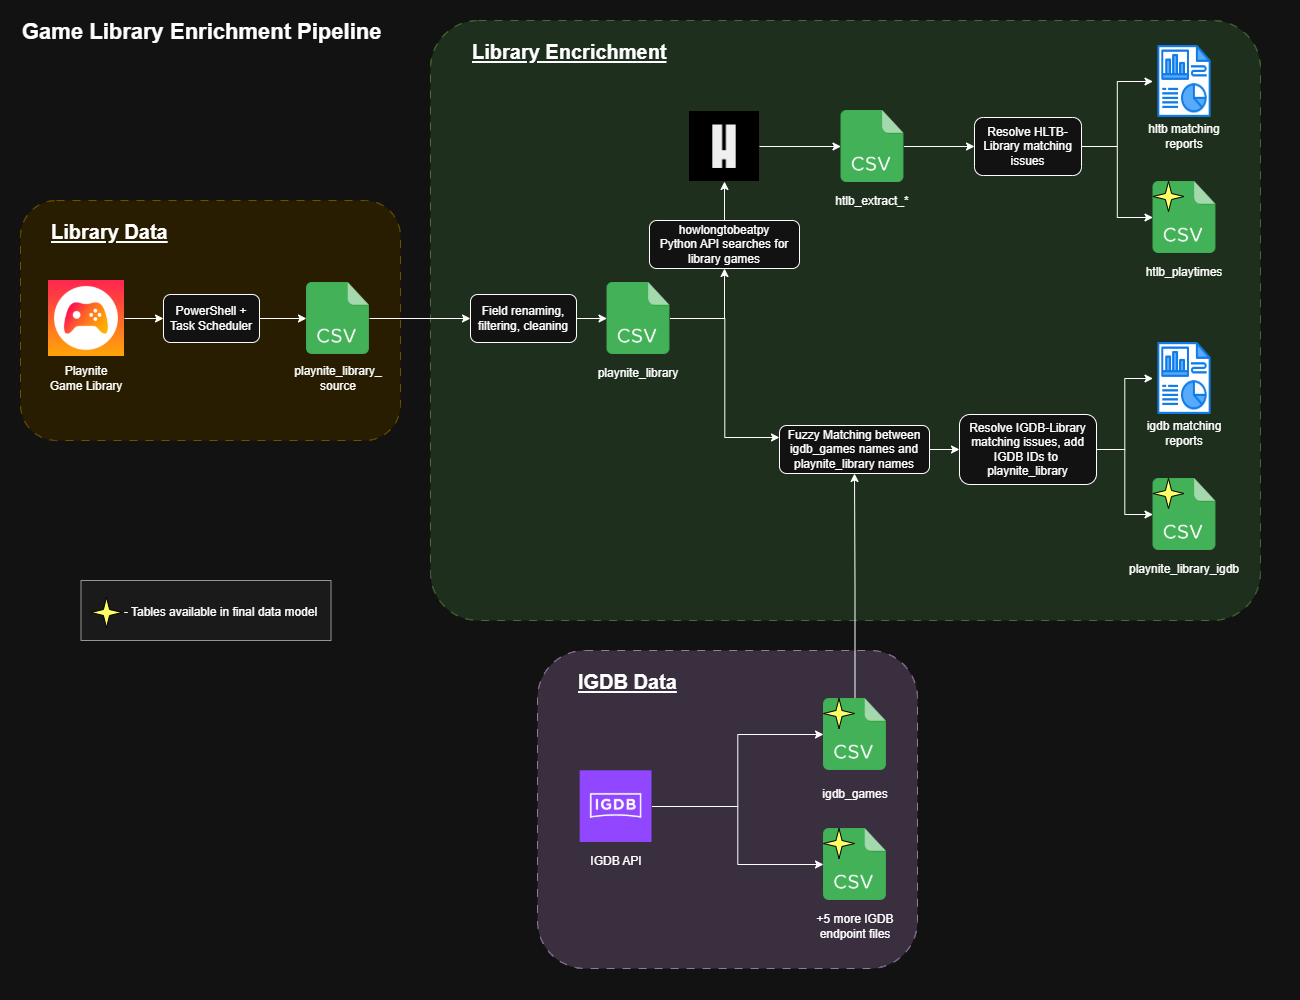
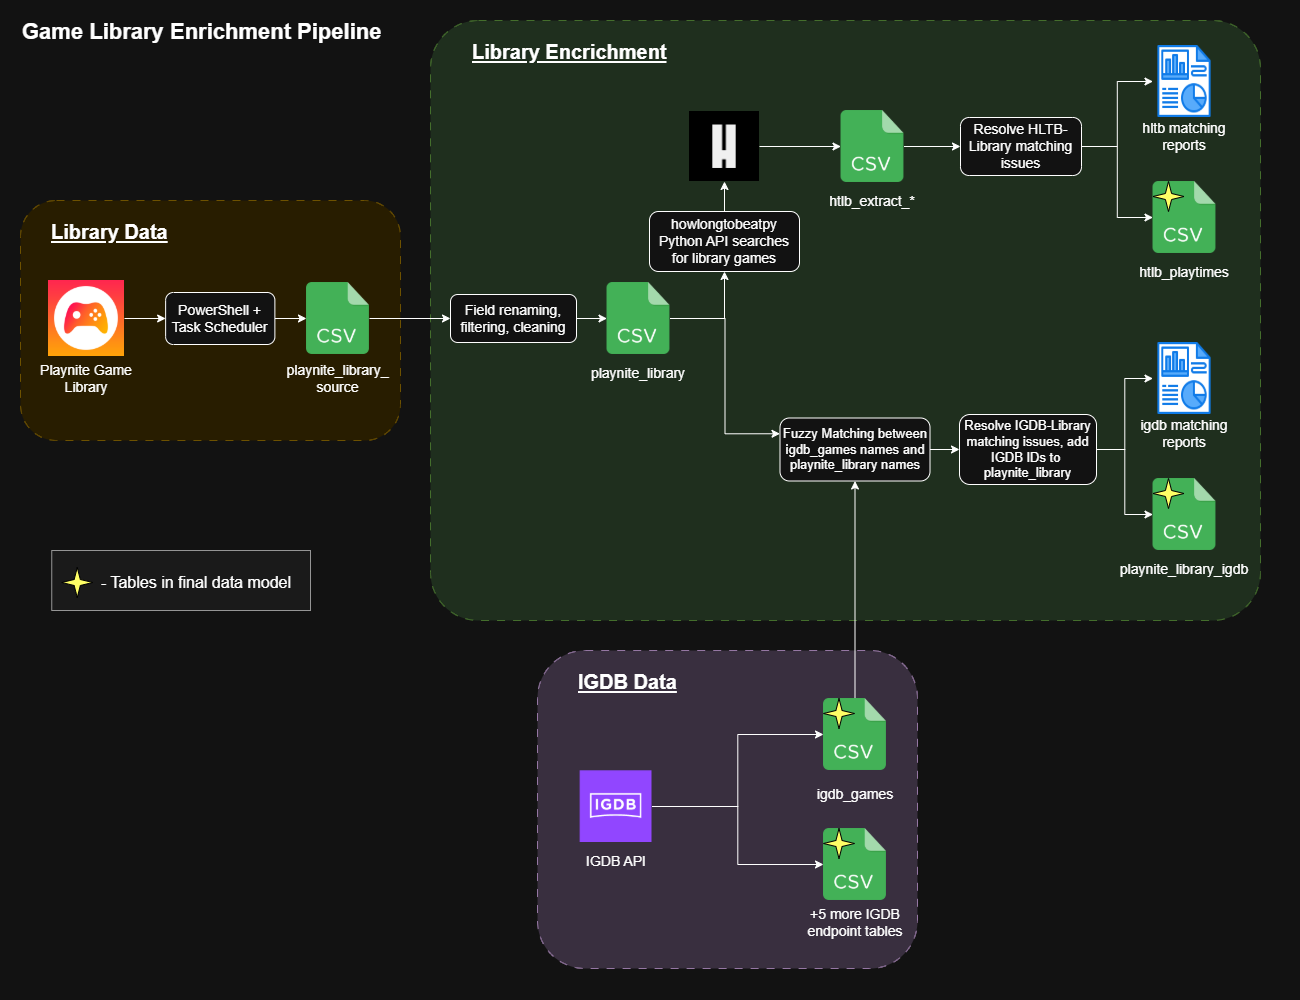
README UPDATES:
- Spelling, grammar mistakes
- Updates to diagrams
- Added weblinks for Playnite, HLTB, IGDB
- Added LICENSE section
- Added 'Remasters, Remakes, and Reboots' and 'Different Name in IGDB vs
  HLTB' sections in 'Challenges Faced'

diff --git a/README.md b/README.md
@@ -1,17 +1,17 @@
-# Video Game Library Enrichment ETL Pipline
-A Python data pipelnie that enriches my personal video game library data with external sources, creating datasets ready for further analytic and machine learning projects.
+# Video Game Library Enrichment ETL Pipeline
+A Python data pipeline that enriches my personal video game library data with external sources, creating datasets ready for further analytic and machine learning projects.
 
 ## Project Overview
 
 ### Purpose
-The purpose of this ETL pipeline to automatically build out a personal video game analytics data model based on the games available in my personal library (managed by the Playnite application).
+The purpose of this ETL pipeline is to automatically build out a personal video game analytics data model based on the games available in my personal library (managed by the Playnite application).
 
 ### What it Does:
 - **Generates and Extracts** game data from the following sources:
-    - **Playnite** - a universal game library manager
-    - **HowLongToBeat (HLTB)** - a community-driven website containing aggregated playtimes for thousands of video games
-    - **Internet Games Database (IGDB)** - an online database containing comprehensive information about thousands of video games
-- **Connects** the three data sources together via search and fuzzy matching
+    - **[Playnite](https://playnite.link/)** - a universal game library manager
+    - **[HowLongToBeat (HLTB)](https://howlongtobeat.com/)** - a community-driven website containing aggregated playtimes for thousands of video games
+    - **[Internet Games Database (IGDB)](https://www.igdb.com/)** - an online database containing comprehensive information about thousands of video games
+- **Connects** the three data sources together through search and fuzzy matching
 - **Reports** on matching quality and unmatched entries for both HLTB and IGDB matches
 - **Outputs** a clean, ready-to-consume data model for use in future analytic projects
 
@@ -22,11 +22,13 @@ The purpose of this ETL pipeline to automatically build out a personal video gam
 ![game-library-enrichment-pipeline](https://github.com/user-attachments/assets/50d7e008-70f8-40ce-8f74-1ab0060b15ee)
 
 ### Core ETL Components
-- **`playnite_library_extract.ps1`** - PowerShell script embedded within the Playnite application that exports library data (not run within this project)
+- **`playnite_library_extract.ps1`** - PowerShell script embedded within the Playnite application that exports library data
+    - To set this up, in Playnite, go to Settings -> Scripts and then add the code found within this script to one of the text boxes (I place it in the 'Execute on application start' option)
+    - I also set up a Task Scheduler task to automatically restart Playnite everyday in order to execute this script. This code is found in the **`playnite_restart.ps1`** script
 - **`pipeline.py`** - Main orchestrator that coordinates all ETL processes
 - **`game_library.py`** - Extracts and cleans Playnite library exports
-- **`how_long_to_beat.py`** - Utilizes the howlongtobeatpy Python API to search and match library games with HLTB games to extract community playtime data
-- **`internet_games_database.py`** - Retrieves datasets form the IGDB API's endpoints, and performs fuzzy matching with library data to match games
+- **`how_long_to_beat.py`** - Utilizes the [howlongtobeatpy](https://pypi.org/project/howlongtobeatpy/) Python API to search and match library games with HLTB games to extract community playtime data
+- **`internet_games_database.py`** - Retrieves datasets from [IGDB API](https://www.igdb.com/api) endpoints, and performs fuzzy matching with library data to match games
 - **`utils.py`** - Utilities script for configuration, logging, and CLI handling
 
 ## Key Technical Features
@@ -36,14 +38,14 @@ The purpose of this ETL pipeline to automatically build out a personal video gam
 - **Comprehensive reporting** on match quality and unmatched entries
 
 ### Flexible & Reliable Processing
-- **Modular design** - run the full pipeline or individual components
+- **Modular design** - ability to run the full pipeline or individual components
 - **Configuration-driven** - easily switch input and output files and paths
 - **Detailed logging** - track progress and troubleshoot issues
 
 ### Automation Ready
-- **CLI interface** designed for scheduled execution
-- **Sample data mode** for testing without API credentials
-- **Task Scheduler compatible** for automated daily/weekly runs
+- **CLI interface** - designed for scheduled execution
+- **Sample data setup available** - for testing without API credentials
+- **Task Scheduler compatible** - for automated daily/weekly runs
 
 ### Prerequisites
 - Python 3.12+
@@ -60,7 +62,10 @@ pip install -r requirements.txt
 ```
 
 ### Configuration
-If you wish to run your own library through the pipeline:
+**If you don't want to setup IGDB API credentials and just want to run the pipeline using the sample data**: 
+- Skip this section and go straight to [Quick Start](#Quick-Start).
+
+**If you wish to run your own library through the pipeline *and* you have setup IGDB API credentials**:
 1. Copy `sample.yaml` to `config.yaml`
 2. Update file paths and add your IGDB API credentials:
 ```yaml
@@ -69,58 +74,70 @@ igdb:
   client_secret: "your_client_secret"
 
 data:
-  library_source_file: "data/input/game_library.csv"
+  library_source_file: "data/test/library_sample_data.csv"
 ```
-3. The project will output CSVs for the data model within the project by default. If you wish to change this, adjust the following variables:
+3. The project will output CSVs for the data model within the project data folder by default. If you wish to change this, adjust the following variables:
 ```yaml
 data:
   raw_path: "data/test/raw/"
   processed_path: "data/test/processed/"
   hltb_raw_path: "data/test/raw/hltb_extracts/"
-  hltb_issues_report_path: "data/test/reports/hltb_issues/"
+  hltb_issues_report_path: "data/test/reports/hltb_matching_reports/"
   igdb_raw_path: "data/test/raw/igdb/"
-  igdb_issues_report_path: "data/test/reports/igdb_issues/"
+  igdb_issues_report_path: "data/test/reports/igdb_matching_reports/"
 ```
 
-If you want to run the script without using your own library and/or without setting up igdb credentials, simply rename sample.yaml to config.yaml and make sure you specify the --skip_igdb argument (see Quick Start walkthrough below).
-
-
 ### Quick Start
+To run the pipeline, see below CLI prompts:
+
 ```bash
-# Test with provided sample data (no API credentials needed) - IF you renamed sample.yaml to config.yaml
-python pipeline.py --skip_igdb
+# Test with provided sample data (no API credentials or library data needed)
+python pipeline.py --config sample.yaml --skip_igdb_api 
 
-# Test with provided sample data (no API credentials needed) - IF you didn't rename sample.yaml
-python pipeline.py --config sample.yaml --skip_igdb 
-
-# Run full enrichment pipeline
+# Run full enrichment pipeline using config.yaml (config.yaml must contain igdb credentials)
 python pipeline.py
 
 # Run specific components only
 python pipeline.py --config config.yaml --library
 python pipeline.py --config config.yaml --hltb
 python pipeline.py --config config.yaml --library --igdb
-python pipeline.py --config config.yaml --library --skip_igdb
+python pipeline.py --config config.yaml --library --skip_igdb_api
 ```
+
+### Using Your Own Library
+If you want to use this script with your own game library, **it is highly recommended you use Playnite** to extract your library data using the code found in the `playnite_library_extract.ps1` script. The pipeline expects the library to be formatted a certain way, and will require edits if the library dataset format is different. You also may want to adjust the `transform_library_data()` function in `game_library.py` to remove any specific filtering and cleaning steps you don't want/need. Currently, the steps present in this function are for my own personal use case*
+
+To set up the `playnite_library_extract.ps1` script to extract your Playnite library data: 
+1. In Playnite, go to Settings -> Scripts
+2. Add the code from `playnite_library_extract.ps1` to one of the script text boxes (I place it in the 'Execute on application start' option)
+3. If you placed the code in the 'Execute on application start' or 'Execute on application shutdown', you may want to set up a Task Scheduler task or CRON job to automatically restart Playnite on a regular basis to execute the script. The code found in the `playnite_restart.ps1` script is what I used to set this up
 
 ## Output & Results
 
 ![game-library-enrichment-erd](https://github.com/user-attachments/assets/0b4106e6-7b09-4c95-8ab3-36bc4076247d)
 
 ### Generated Datasets
-- **`playnite_library_igdb.csv`** - Cleaned library with IGDB game IDs
+- **`playnite_library_igdb.csv`** - cleaned library with IGDB game IDs
 - **`hltb_playtimes.csv`** - HowLongToBeat community playtime data
-- **`igdb_games.csv`** - Main IGDB games table
+- **`igdb_games.csv`** - main IGDB games table
 - **`igdb_game_types.csv`** - game types (main game, expansion, DLC, etc.)
 - **`igdb_genres.csv`** - game genres (Point-and-click, Fighting, Shooter, etc.)
 - **`igdb_franchises.csv`** - game franchises (Halo, Call of Duty, Madden, etc.)
 - **`igdb_keywords.csv`** - words or phrases that get tagged to a game ('World War 2', 'Steampunk', etc.)
 - **`igdb_themes.csv`** - game theme (Drama, Non-fiction, Sandbox, etc.)
-* **`igdb_player_perspectives.csv` - describes the view/perspective of the player in a game (First person, Third Person, Text, etc.)
-- **`hltb_matching_reports/`** - Detailed reports on data quality and matching success for HLTB
-- **`igdb_matching_reports/`** - Detailed reports on data quality and matching success for IGDB
+- **`igdb_player_perspectives.csv`** - describes the view/perspective of the player in a game (First person, Third Person, Text, etc.)
+- **`/hltb_matching_reports/`** - detailed reports on data quality and matching success for HLTB
+- **`/igdb_matching_reports/`** - detailed reports on data quality and matching success for IGDB
 
-Note that there are many more endpoints available via the IGDB API that could be added as output datasets. The ones listed above are those that I personally picked that believed would be relevant to future analytic projects.
+*NOTE: there are many more endpoints available via the IGDB API that could be added as output datasets. The ones listed above are those that I personally picked that I believed would be relevant to future analytic projects.*
+
+## Challenges Faced
+Some of the issues encountered during the development of this pipeline that had to be overcome:
+- **Story DLCs/Expansions** - these are rarely treated as standalone games in Playnite, Steam, etc. but usually have their own playtimes and attributes that differ from the main game. In addition, these DLCs/Expansions usually release some time after the main game, meaning players usually do a separate 'playthrough' of the DLC months or years after playing the main game. HLTB and IGDB also treat these as separate entities, with their own unique playtimes and attributes. Because of this, I treat story DLCs and Expansions as unique entities within Playnite. They receive their own ID, a "DLC" category within Playnite, and their own ties to HLTB and IGDB data. Some games - like Mass Effect Legendary Edition - come prepackaged with all of the DLC content. In these cases, the DLCs do not receive separate entries in Playnite, as the data associated with these games in HLTB and IGDB *assumes* the playtime and game attributes include the DLC.
+- **Duplicate games across multiple platforms** - I own some games on multiple platforms (like Xbox and Steam). To remedy this, I tend to use the 'Hide Game' feature in Playnite to hide games on platforms I no longer play on (like Xbox) when I have the game available on my PC. The pipeline then filters out any games with the 'Hidden' flag set to True.
+- **Remasters, Remakes, and Reboots** - many of these games use the exact same name as the original (Dead Space from 2008 vs Dead Space from 2023). To prevent multiple exact matches in HLTB and IGDB, after matching is performed, the release year associated with the Playnite library game is compared to each of the matches in HLTB and IGDB. Only matches with the same release year are kept.
+- **Different Name in IGDB vs HLTB** - in some cases, HLTB and IGDB will use different names for the same game. One common example are the Pokemon games; many Pokmeon releases include two version of the game (for example, Red and Blue for the Gameboy), and HLTB combines both of these releases into a single entry ("Pokemon Red & Blue"). On the other hand, IGDB keeps the two releases as separate entries, and also includes "Version" in the names ("Pokemon Blue Version" and "Pokemon Red Version"). These games are captured in the matching reports as 'low similarity games', and require mitigation methods to ensure the correct matches are being pulled from HLTB and IGDB. These mitigation methods could include manually adjusting a game's name in Playnite or adding specific rules to the Python code prior to matching with HLTB and IGDB records.
+- **"Unending" Games** - some games - like Mario Party, Call of Duty Warzone, and Minecraft - do not have well-defined playtimes, as they offer generally don't have a "beginning" and "end", but rather are multiplayer or sandbox experiences that are intended to be played for dozens or even hundreds of hours without providing a neat conclusion. These games are not excluded from the HLTB playtime collection process, but should be treated carefully in any playtime prediction projects.
 
 ## What's Next
 
@@ -130,12 +147,12 @@ This ETL pipeline creates the foundation for several downstream projects:
 - **Integration with Other Gaming ETL Pipelines**: Connect enriched library data with other datasets such as personal playtime history, game reflections, game screenshots and other datasets to allow for the following projects:
     - **Daily Playtime Forecasting**: Forecast future daily playtimes
     - **Game Reflection NLP Projects**: Further enhance knowledge of personal gaming preferences
-    - **Game Screenshot Computer Vision Projects**: Cluster games with similar artistic design, identify charcters and UI elements on screen, etc.
+    - **Game Screenshot Computer Vision Projects**: Cluster games with similar artistic design, identify characters and UI elements on screen, etc.
 
-## Contributing
-
-This is primarily a personal project, but suggestions and improvements are welcome! Please open an issue to discuss any major changes.
+In addition, I'm planning on adding more functionalities to the ETL pipeline in the future (most of these additions are meant to help me build out my skills in the following areas):
+- [ ] Alerting and monitoring to inform the user whenever the pipeline fails
+- [ ] Unit testing
+- [ ] Data validation and testing
 
 ## License
-
-MIT License - feel free to adapt for your own gaming data projects.
+This project is licensed under the MIT License - see the [LICENSE](LICENSE) file for details.
